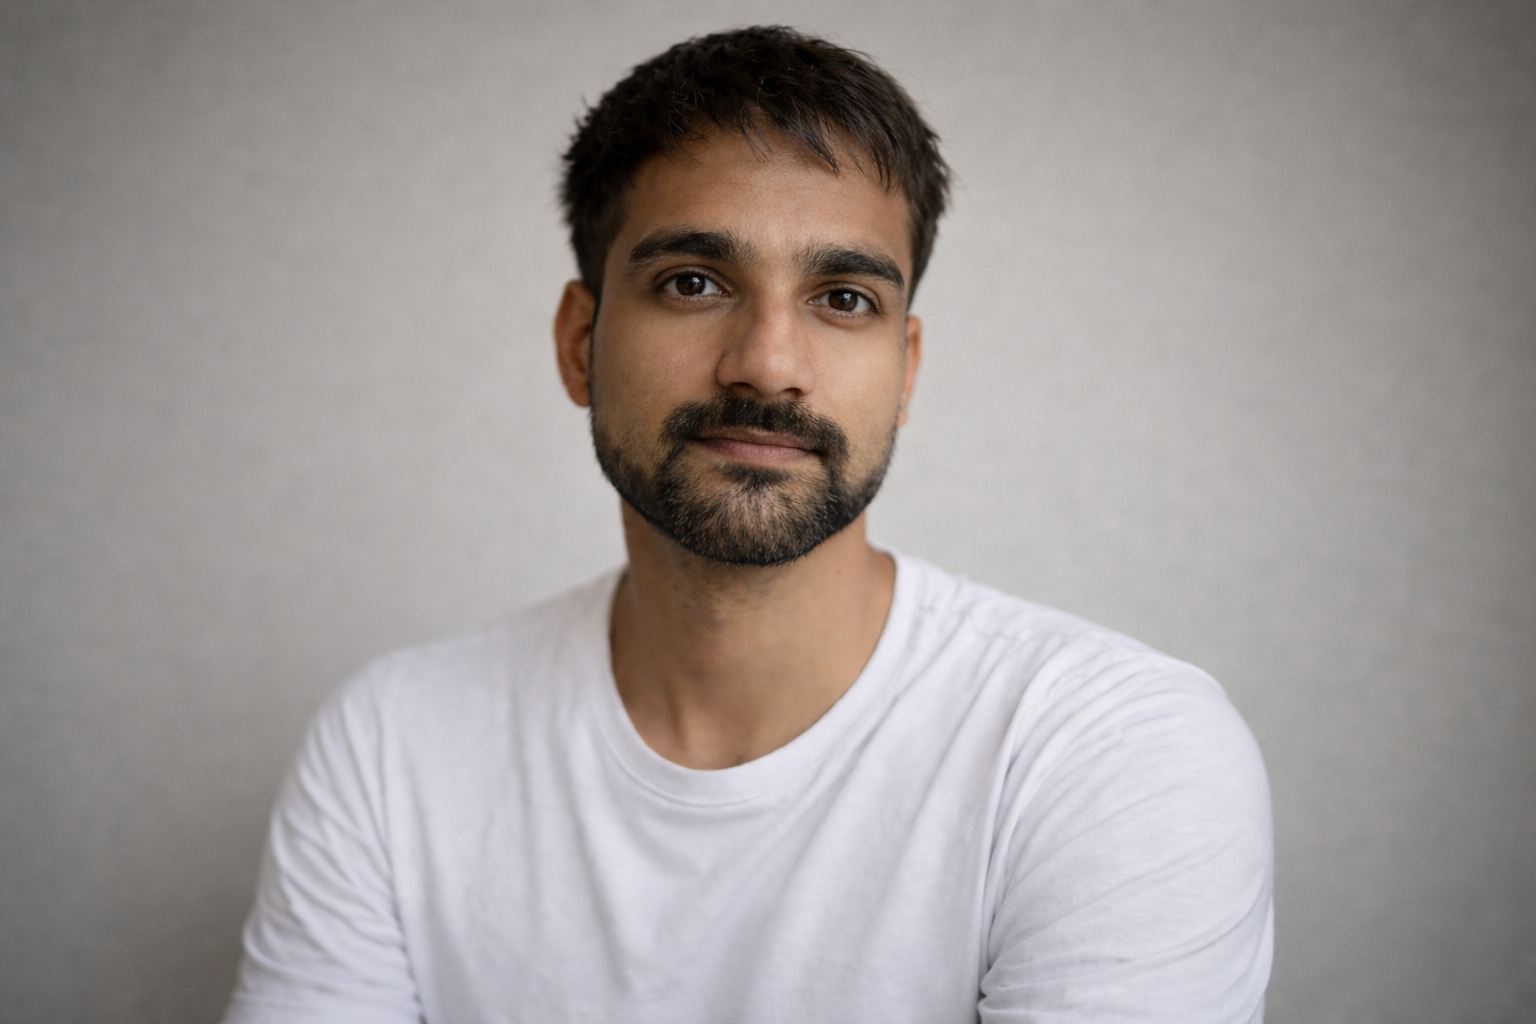
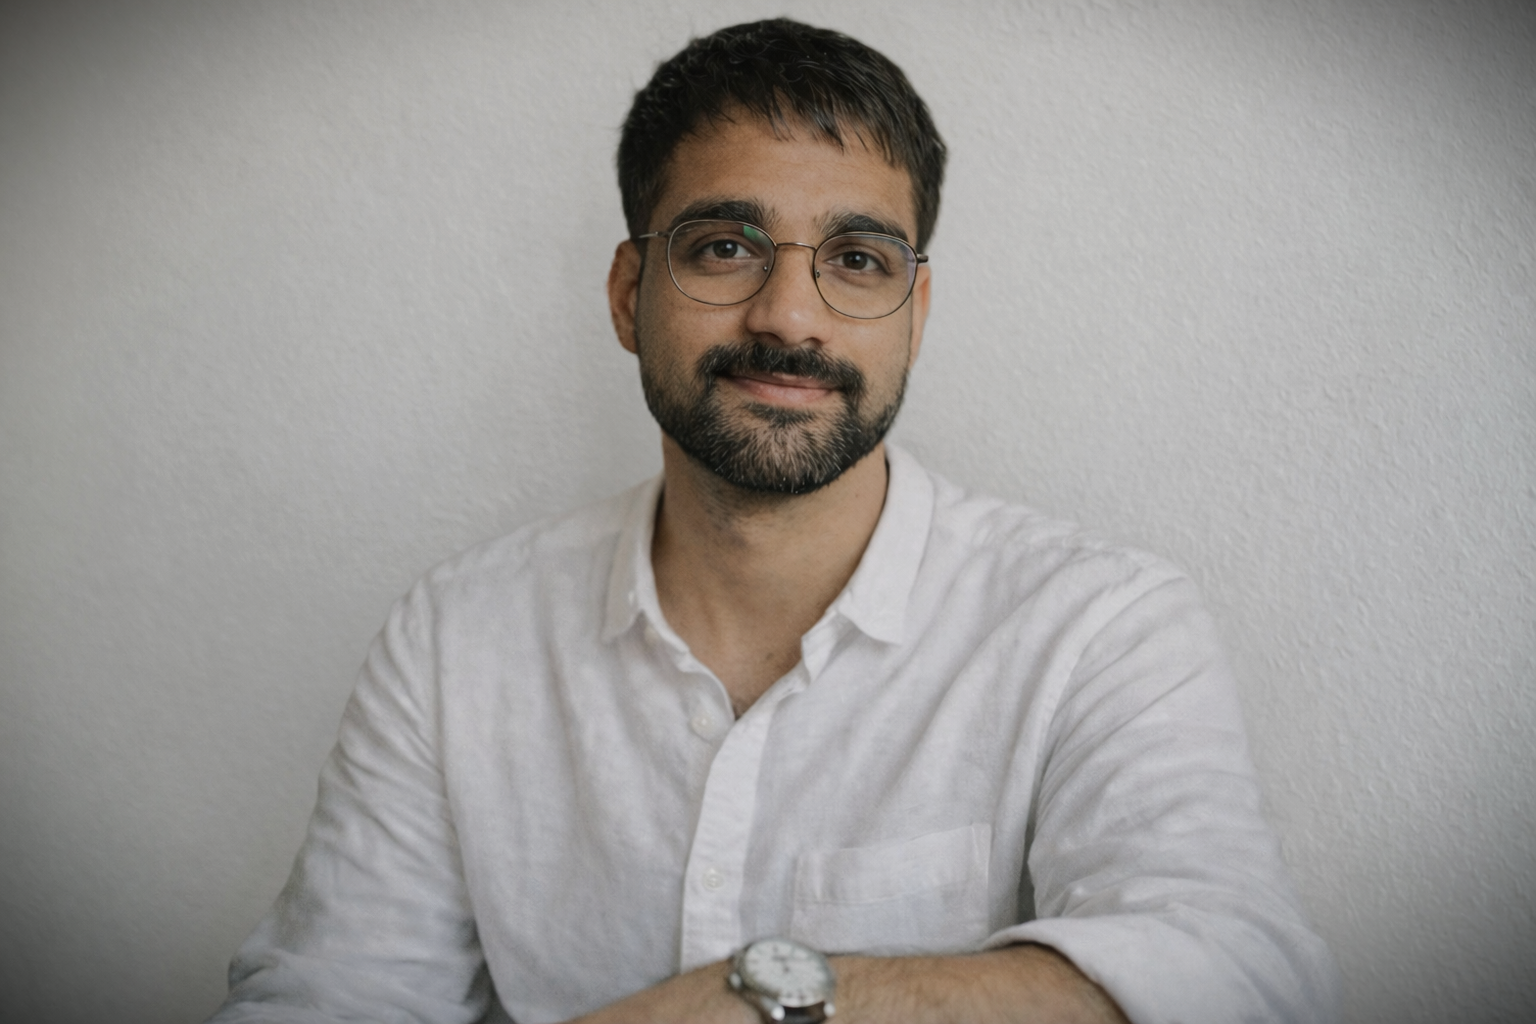
developer page edited profile photo, resume , live project link added

diff --git a/templates/home/developer.html b/templates/home/developer.html
@@ -23,6 +23,7 @@
             <a href="/static/images/siddhesh_resume_FS.pdf" class="resume-btn" target="_blank">
                 Download Resume
             </a>
+
         </div>
 
 
@@ -43,6 +44,7 @@
 
             The system allows users to store and track job applications, interview schedules, company details, application status, and important deadlines. It improves organization and reduces missed opportunities by providing structured tracking and real-time status updates.</p>
             <p><strong>Tech:</strong> Django, Python, HTML, CSS, Bootstrap, JavaScript</p>
+            <a href="https://job-tracking-application.onrender.com">Live Project Demo |</a>
             <a href="https://github.com/sidddhesh-dev/job_tracking_application">GitHub Repository</a>
         </div>
 

diff --git a/templates/products/product_details.html b/templates/products/product_details.html
@@ -15,7 +15,7 @@
 
         <h1>{{ product.name }}</h1>
 
-        <p class="price">₹ {{ product.price }}</p>
+        <p class="price">$ {{ product.price }}</p>
 
         <p class="cat"><strong>Category:</strong> {{ product.category }}</p>
 
